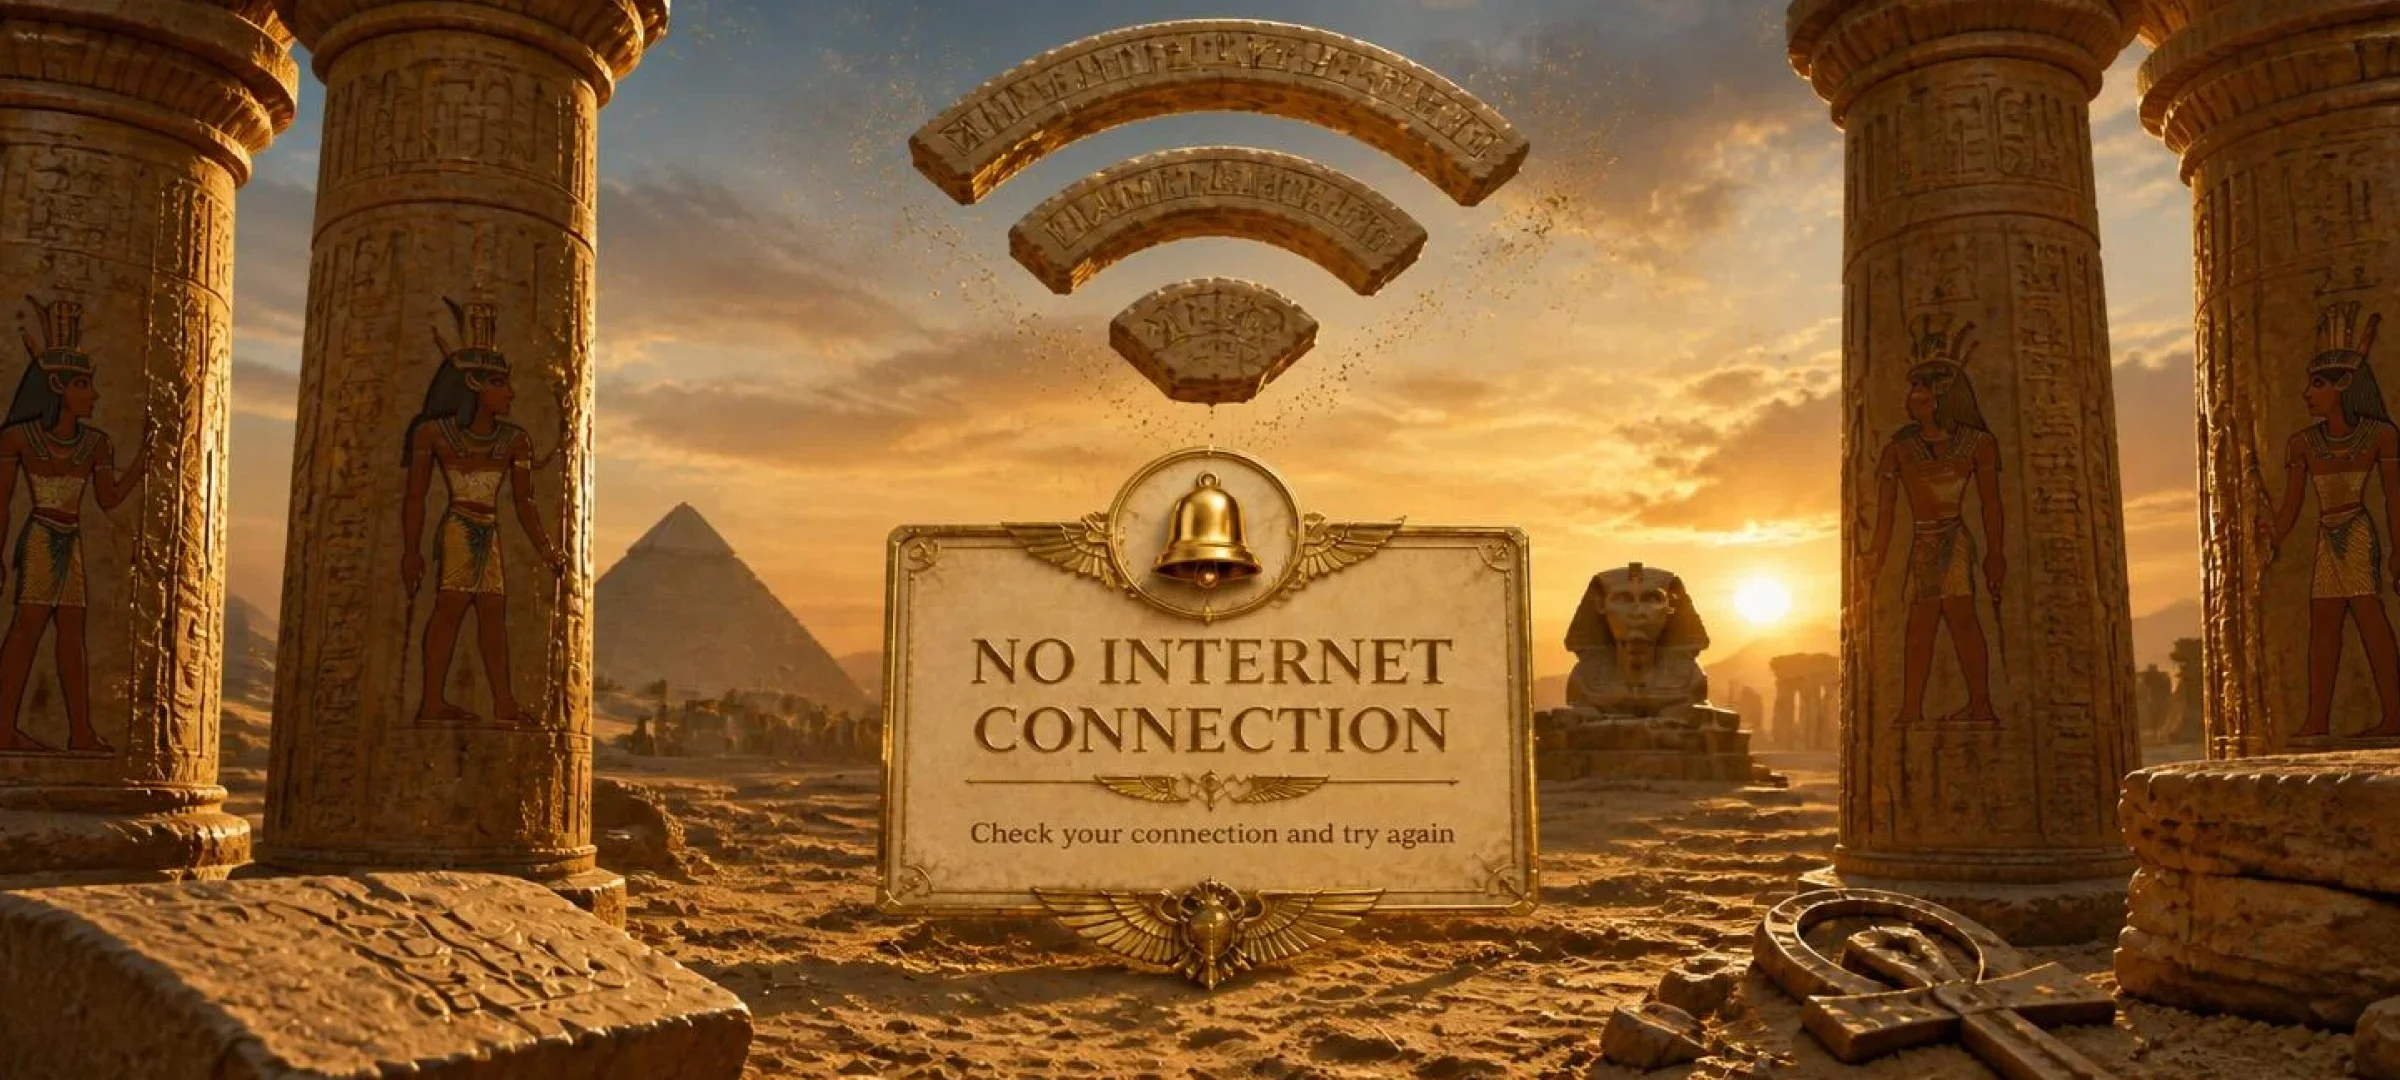
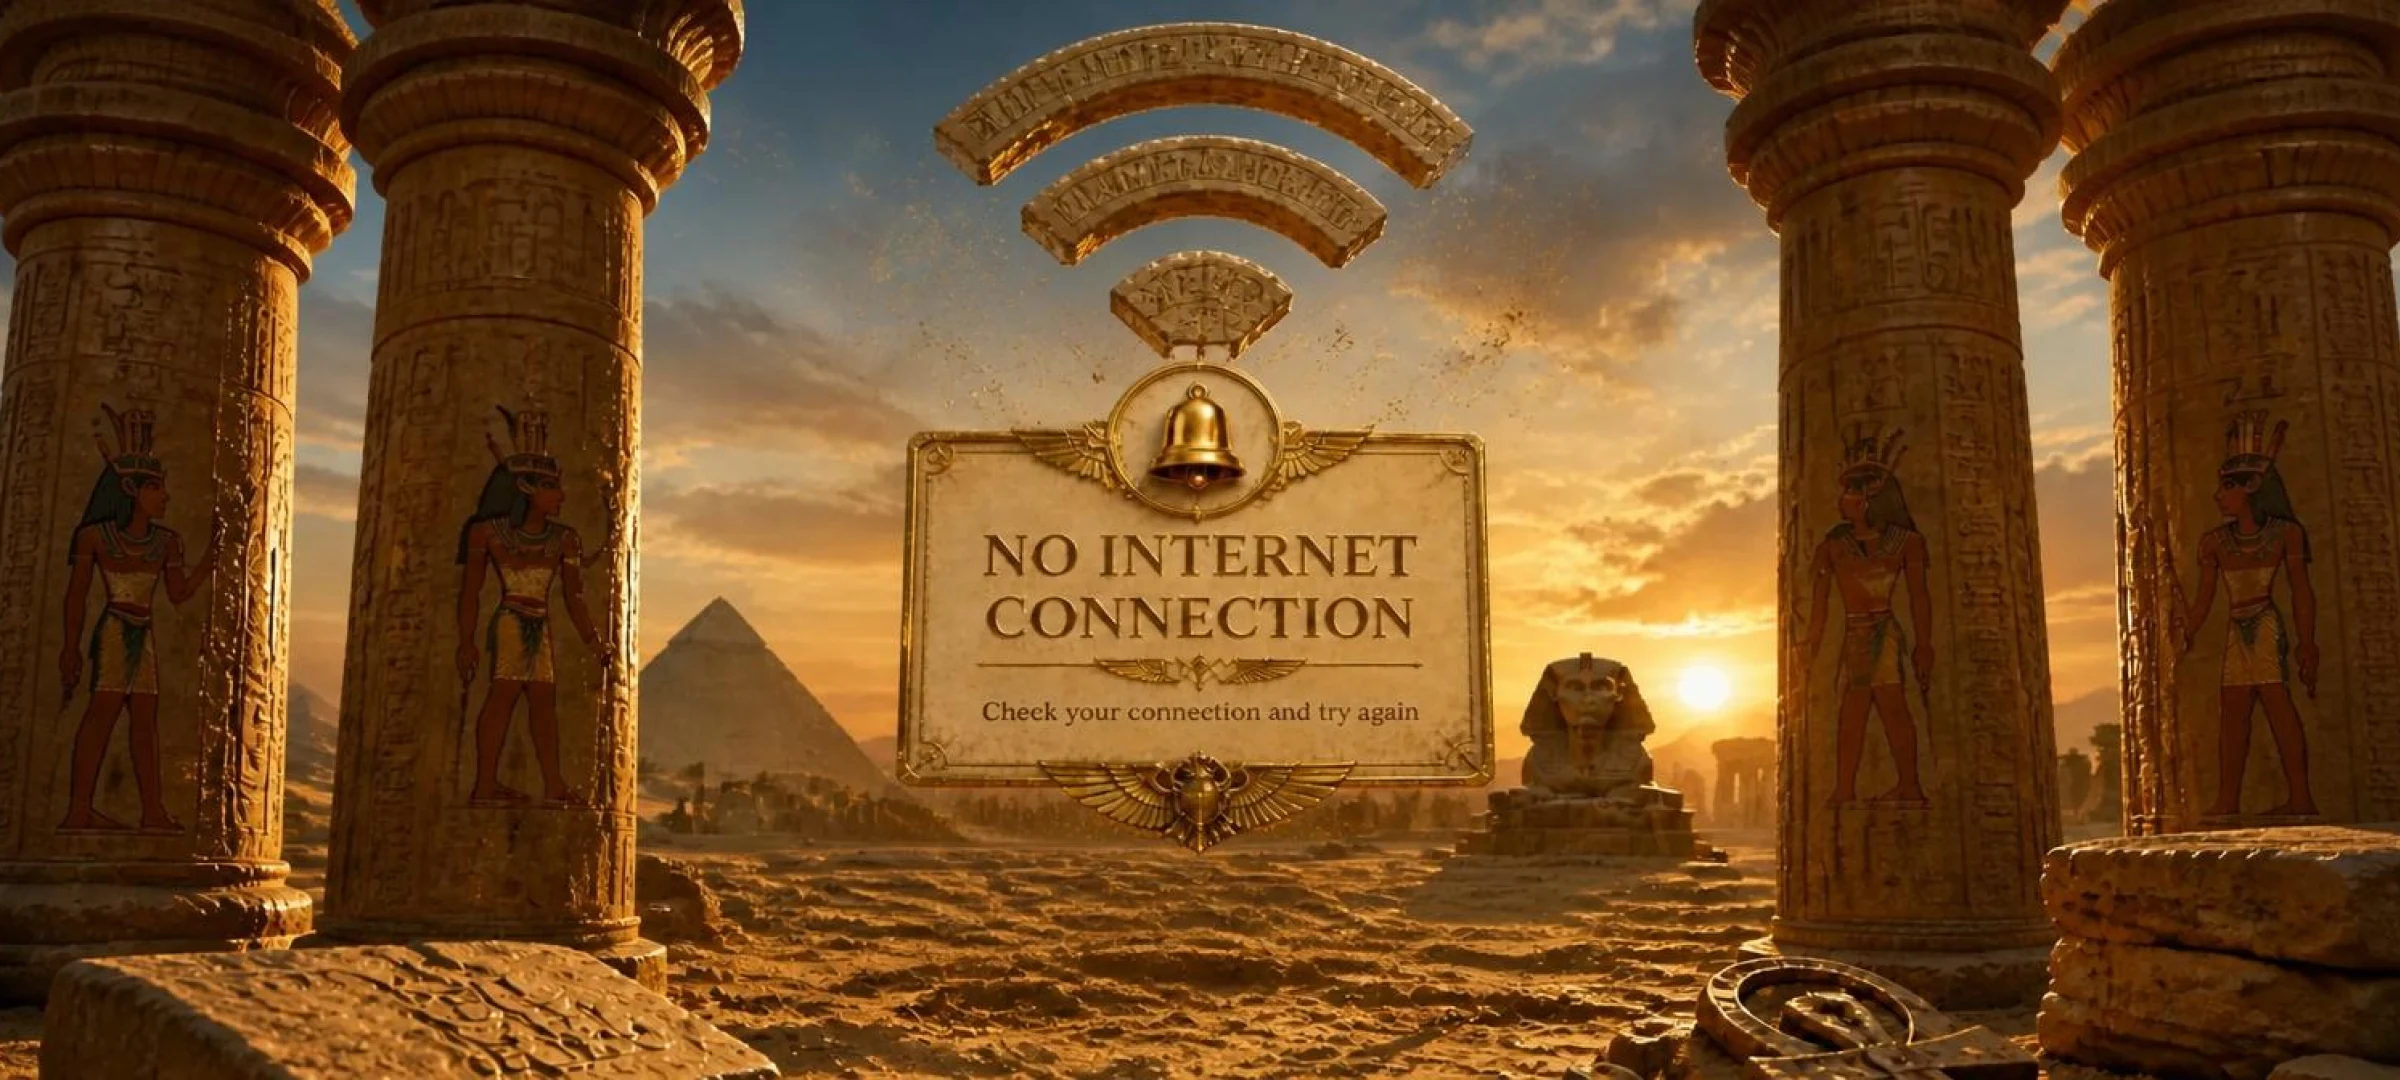
style(gray): bigger landscape retry pill + new nowifi_hor art
* Swap in the new nowifi_hor.webp (Egyptian columns + marble plaque
  under a Wi-Fi glyph).  3.2 MB PNG source converted to 292 KB WebP.
* Widen the landscape retry pill from 24 % of screen width to 40 %
  (margin 0.38 -> 0.30), bump its height from 40 to 52, and grow
  both the "Try again" and "Reconnecting…" labels by ~30 % so the
  button reads as a proper primary action against the roomier plate.

diff --git a/lib/stage/tempest_stage.dart b/lib/stage/tempest_stage.dart
@@ -84,14 +84,13 @@ class _TempestStageState extends State<TempestStage>
         ? 'assets/nowifi/nowifi_hor.webp'
         : 'assets/nowifi/nowifi_vert.webp';
 
-    // Landscape gets a noticeably slimmer button (both narrower
-    // and shorter) — the horizontal artwork already fills more
-    // of the frame, so a large gold pill fought the composition.
-    // Second iteration: tightened the margins another notch so
-    // the button sits inside the plate painted into nowifi_hor.
+    // Sizing: the fresh landscape art (nowifi_hor.webp) has a
+    // roomier plaque, so the pill can grow to line up with its
+    // edges without fighting the composition.  Portrait keeps
+    // its previous proportions.
     final horizontalMargin =
-        landscape ? size.width * 0.38 : size.width * 0.10;
-    final buttonHeight = landscape ? 40.0 : 60.0;
+        landscape ? size.width * 0.30 : size.width * 0.10;
+    final buttonHeight = landscape ? 52.0 : 60.0;
 
     return Scaffold(
       backgroundColor: const Color(0xFF0B1A3A),
@@ -181,20 +180,20 @@ class _RetryPlate extends StatelessWidget {
                   mainAxisSize: MainAxisSize.min,
                   children: [
                     SizedBox(
-                      width: compact ? 14 : 20,
-                      height: compact ? 14 : 20,
+                      width: compact ? 18 : 20,
+                      height: compact ? 18 : 20,
                       child: const CircularProgressIndicator(
                         strokeWidth: 2.2,
                         valueColor: AlwaysStoppedAnimation<Color>(
                             Color(0xFFF4D06F)),
                       ),
                     ),
-                    SizedBox(width: compact ? 7 : 12),
+                    SizedBox(width: compact ? 10 : 12),
                     Text(
                       'Reconnecting…',
                       style: TextStyle(
                         color: const Color(0xFFF4D06F),
-                        fontSize: compact ? 13 : 17,
+                        fontSize: compact ? 16 : 17,
                         fontWeight: FontWeight.w700,
                         letterSpacing: 0.6,
                       ),
@@ -205,7 +204,7 @@ class _RetryPlate extends StatelessWidget {
                   'Try again',
                   style: TextStyle(
                     color: const Color(0xFF1A0A00),
-                    fontSize: compact ? 13 : 18,
+                    fontSize: compact ? 17 : 18,
                     fontWeight: FontWeight.w800,
                     letterSpacing: 0.7,
                   ),